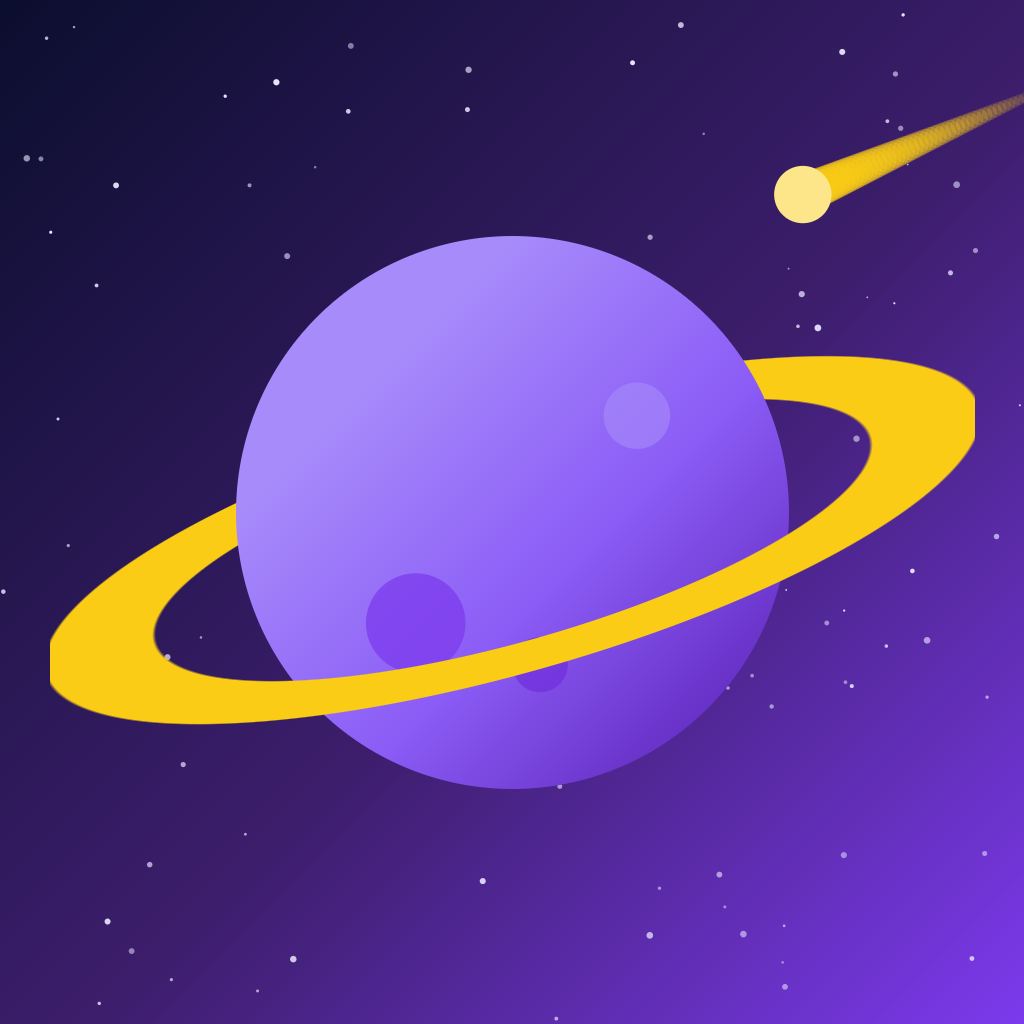
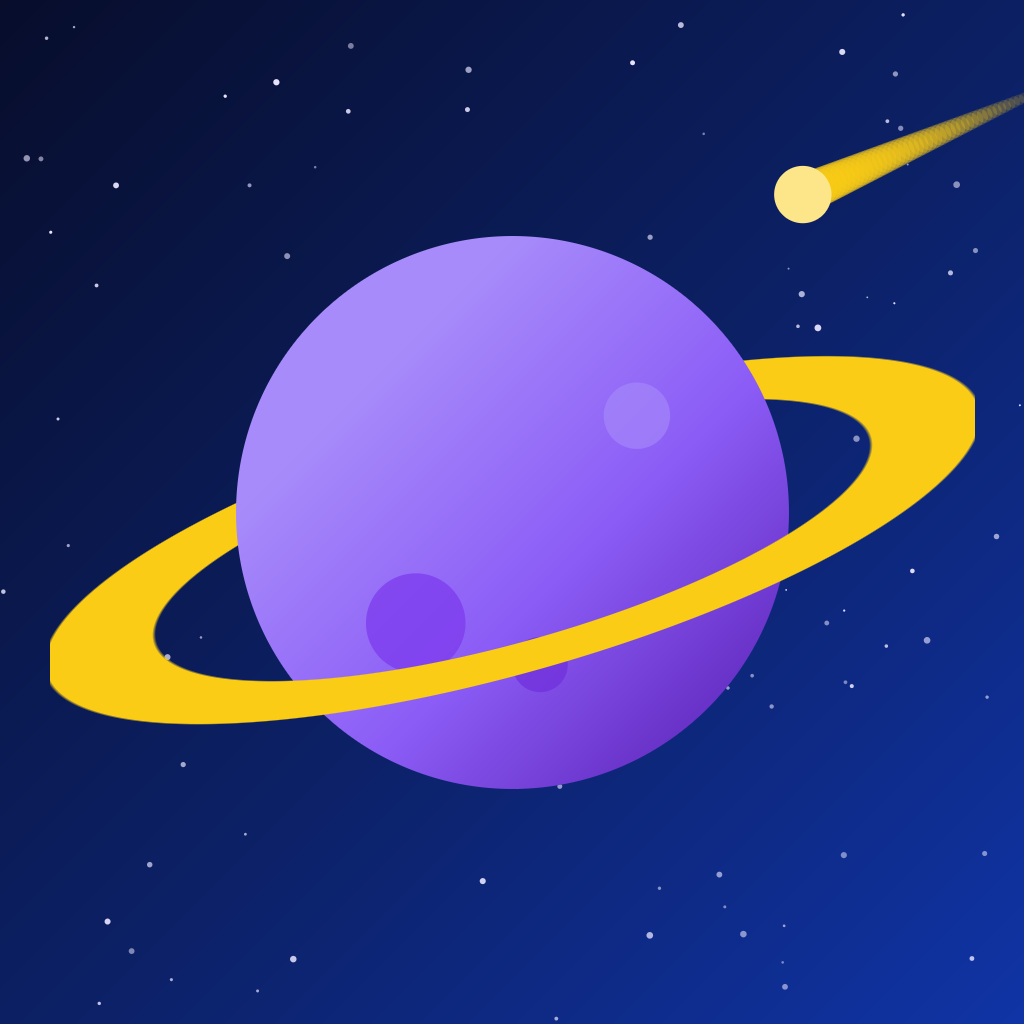
Landscape gameplay, gravity-based tilt fix, bigger words, Egyptian blue theme
1. Game screen now plays in landscape (expo-screen-orientation):
   rotates at the 3-2-1 countdown, restores portrait on exit
2. Fix tilt bug: rotation.beta gimbal-flips near vertical, making tilt-up
   register as correct. Now uses the gravity vector (asin(g_z/|g|)) —
   unambiguous up vs down, works in any orientation
3. Words much bigger (110pt autoscaling, max 2 lines); compacted game
   chrome; every deck now 30+ words with genuinely harder 'hard' tiers
4. Global color switched to Egyptian blue (#1034A6): theme gradient,
   accents, app.json backgrounds, regenerated icon/splash art

diff --git a/hooks/useTiltDetection.ts b/hooks/useTiltDetection.ts
@@ -15,18 +15,29 @@ interface Options {
 }
 
 /**
- * Tilt detection for "phone on forehead" play, via DeviceMotion.
+ * Sign normalization for accelerationIncludingGravity.z so that
+ * "+1 g along z" always means "screen facing the ceiling":
+ * - iOS (CoreMotion): flat screen-up reports z ≈ -9.81
+ * - Android: flat screen-up reports z ≈ +9.81
+ */
+const GRAVITY_SIGN = Platform.OS === "ios" ? -1 : 1;
+
+/**
+ * Tilt detection for "phone on forehead" play.
  *
- * The phone is held upright (portrait) against the forehead, screen facing
- * the guessers. We derive the pitch angle from `rotation.beta` (rotation
- * around the device x-axis, radians):
- *   - upright ≈ 90°
- *   - tilt down (screen toward floor)  → angle shrinks toward 0°
- *   - tilt up (screen toward ceiling)  → angle grows toward 180°
+ * Uses the GRAVITY VECTOR, not Euler angles: rotation.beta suffers a gimbal
+ * flip near vertical (tilting up past vertical makes beta shrink again, which
+ * made tilt-up register as "correct"). Gravity has no such ambiguity and is
+ * orientation-independent (works in portrait AND landscape).
+ *
+ * Geometry: the phone is held vertically against the forehead, screen facing
+ * the guessers → gravity is perpendicular to the screen normal (tilt ≈ 0°).
+ *   - Tilt DOWN (screen toward floor)  → gravity gains a -z component
+ *   - Tilt UP   (screen toward ceiling) → gravity gains a +z component
+ * tiltDeg = asin(g_z / |g|):  negative = down, positive = up.
  *
  * Debounce contract: after firing "down" or "up", the device must return to
- * the neutral band before another event can fire — a single tilt gesture
- * produces exactly one event.
+ * the neutral band before another event can fire — one gesture, one event.
  */
 export function useTiltDetection({ onTilt, sensitivity = 0.5, enabled = true }: Options = {}) {
   const [tiltState, setTiltState] = useState<TiltState>("neutral");
@@ -40,11 +51,11 @@ export function useTiltDetection({ onTilt, sensitivity = 0.5, enabled = true }: 
   const enabledRef = useRef(enabled);
   enabledRef.current = enabled;
 
-  // Sensitivity 0..1 → trigger offset from vertical: 50° (hard) … 25° (easy).
+  // Sensitivity 0..1 → trigger angle from vertical: 50° (hard) … 25° (easy).
   const clamped = Math.min(1, Math.max(0, sensitivity));
-  const triggerOffset = 50 - clamped * 25;
-  const offsetRef = useRef(triggerOffset);
-  offsetRef.current = triggerOffset;
+  const triggerAngle = 50 - clamped * 25;
+  const angleRef = useRef(triggerAngle);
+  angleRef.current = triggerAngle;
 
   const requestPermission = useCallback(async (): Promise<TiltPermission> => {
     if (Platform.OS === "web") {
@@ -72,29 +83,31 @@ export function useTiltDetection({ onTilt, sensitivity = 0.5, enabled = true }: 
 
     DeviceMotion.setUpdateInterval(80);
     const sub = DeviceMotion.addListener((m: DeviceMotionMeasurement) => {
-      const beta = m.rotation?.beta;
-      if (beta == null) return;
+      const g = m.accelerationIncludingGravity;
+      if (!g || g.x == null || g.y == null || g.z == null) return;
 
-      const pitchDeg = (beta * 180) / Math.PI; // upright ≈ 90
-      const offset = offsetRef.current;
-      const downThreshold = 90 - offset;
-      const upThreshold = 90 + offset;
-      // Neutral band is deliberately narrower than the trigger band so the
-      // gesture has hysteresis (no rapid-fire at the boundary).
-      const neutralLow = 90 - offset * 0.55;
-      const neutralHigh = 90 + offset * 0.55;
+      const magnitude = Math.sqrt(g.x * g.x + g.y * g.y + g.z * g.z);
+      // Ignore junk samples (free-fall / sensor warm-up) — gravity should
+      // dominate; violent shakes briefly distort it but settle within a tick.
+      if (magnitude < 4) return;
+
+      const zRatio = Math.max(-1, Math.min(1, (GRAVITY_SIGN * g.z) / magnitude));
+      const tiltDeg = (Math.asin(zRatio) * 180) / Math.PI; // + up / - down
+
+      const trigger = angleRef.current;
+      const rearm = trigger * 0.5; // hysteresis: must come well back to vertical
 
       if (armedRef.current) {
-        if (pitchDeg < downThreshold) {
+        if (tiltDeg < -trigger) {
           armedRef.current = false;
           setTiltState("down");
           if (enabledRef.current) onTiltRef.current?.("down");
-        } else if (pitchDeg > upThreshold) {
+        } else if (tiltDeg > trigger) {
           armedRef.current = false;
           setTiltState("up");
           if (enabledRef.current) onTiltRef.current?.("up");
         }
-      } else if (pitchDeg > neutralLow && pitchDeg < neutralHigh) {
+      } else if (Math.abs(tiltDeg) < rearm) {
         armedRef.current = true;
         setTiltState("neutral");
       }

diff --git a/app/game.tsx b/app/game.tsx
@@ -1,7 +1,8 @@
 import React, { useCallback, useEffect, useMemo, useRef, useState } from "react";
-import { Pressable, StyleSheet, View } from "react-native";
+import { Platform, Pressable, StyleSheet, View } from "react-native";
 import { useRouter } from "expo-router";
 import { Ionicons } from "@expo/vector-icons";
+import * as ScreenOrientation from "expo-screen-orientation";
 import Animated, {
   Easing,
   FadeIn,
@@ -53,6 +54,15 @@ export default function Game() {
   const resultsRef = useRef<WordResult[]>([]);
   const bestStreakRef = useRef(0);
   const endedRef = useRef(false);
+
+  // Gameplay is landscape (like classic Heads Up). Restore portrait on exit.
+  useEffect(() => {
+    if (Platform.OS === "web") return;
+    ScreenOrientation.lockAsync(ScreenOrientation.OrientationLock.LANDSCAPE).catch(() => {});
+    return () => {
+      ScreenOrientation.lockAsync(ScreenOrientation.OrientationLock.PORTRAIT_UP).catch(() => {});
+    };
+  }, []);
 
   // ----- word advance -----
 
@@ -189,9 +199,9 @@ export default function Game() {
             </PoppinsText>
             <TiltIndicator tiltState={tiltState} active={tiltActive} />
           </View>
-          <TimerRing secondsLeft={secondsLeft} totalSeconds={settings.roundDuration} />
+          <TimerRing secondsLeft={secondsLeft} totalSeconds={settings.roundDuration} size={64} />
           <View style={styles.scoreBox}>
-            <PoppinsText weight="black" size={theme.fontSize.xxl} color={theme.colors.correct}>
+            <PoppinsText weight="black" size={theme.fontSize.xl} color={theme.colors.correct}>
               {score}
             </PoppinsText>
             <PoppinsText weight="medium" size={theme.fontSize.xs} color={theme.colors.textMuted}>
@@ -227,10 +237,11 @@ export default function Game() {
           <PoppinsText
             key={index} // remount per word so font auto-scaling resets
             weight="black"
-            size={theme.fontSize.giant}
+            size={110}
             align="center"
             adjustsFontSizeToFit
-            numberOfLines={3}
+            numberOfLines={2}
+            minimumFontScale={0.3}
             style={styles.word}
           >
             {currentWord?.term ?? "No words!"}
@@ -276,7 +287,7 @@ const styles = StyleSheet.create({
   },
   topLeft: { gap: 6, alignItems: "flex-start", width: 110 },
   scoreBox: { alignItems: "center", width: 110 },
-  streakSlot: { height: 44, alignItems: "center", justifyContent: "center" },
+  streakSlot: { height: 34, alignItems: "center", justifyContent: "center" },
   wordArea: { flex: 1, alignItems: "center", justifyContent: "center" },
   word: { paddingHorizontal: theme.spacing.sm },
   controls: {
@@ -289,7 +300,7 @@ const styles = StyleSheet.create({
     alignItems: "center",
     justifyContent: "center",
     gap: theme.spacing.sm,
-    paddingVertical: 18,
+    paddingVertical: 12,
     borderRadius: theme.radius.lg,
     borderWidth: 1.5,
   },

diff --git a/data/decks.ts b/data/decks.ts
@@ -57,10 +57,12 @@ export const decks: Deck[] = [
       m("The Avengers"), m("Stranger Things"), m("Game of Thrones"),
       m("Breaking Bad"), m("Pirates of the Caribbean"), m("Toy Story"),
       m("The Simpsons"), m("Indiana Jones"), m("King Kong"),
-      m("Mission Impossible"), m("Home Alone"),
-      h("The Godfather"), h("Inception"), h("Squid Game"),
-      h("The Truman Show"), h("Black Mirror"), h("Forrest Gump"),
-      h("The Silence of the Lambs"), h("Groundhog Day"),
+      m("Mission Impossible"), m("Home Alone"), m("Forrest Gump"),
+      m("Squid Game"),
+      h("The Godfather"), h("Inception"), h("The Truman Show"),
+      h("Black Mirror"), h("The Silence of the Lambs"), h("Groundhog Day"),
+      h("Citizen Kane"), h("2001: A Space Odyssey"), h("Parasite"),
+      h("Pulp Fiction"), h("The Blair Witch Project"),
     ],
   },
   {
@@ -94,10 +96,12 @@ export const decks: Deck[] = [
       m("Albert Einstein"), m("William Shakespeare"), m("Leonardo da Vinci"),
       m("Napoleon"), m("Cleopatra"), m("Mozart"), m("Pelé"),
       m("Muhammad Ali"), m("Charlie Chaplin"), m("Neil Armstrong"),
-      m("Christopher Columbus"), m("Julius Caesar"),
+      m("Christopher Columbus"), m("Julius Caesar"), m("Bob Marley"),
+      m("Bruce Lee"), m("Mahatma Gandhi"),
       h("Isaac Newton"), h("Marie Curie"), h("Nikola Tesla"),
       h("Vincent van Gogh"), h("Beethoven"), h("Genghis Khan"),
-      h("Nelson Mandela"), h("Pablo Picasso"),
+      h("Nelson Mandela"), h("Pablo Picasso"), h("Socrates"),
+      h("Joan of Arc"), h("Alexander the Great"),
     ],
   },
   {
@@ -115,6 +119,7 @@ export const decks: Deck[] = [
       m("referee"), m("magician"),
       h("astronaut"), h("archaeologist"), h("surgeon"), h("air traffic controller"),
       h("sommelier"), h("auctioneer"), h("undertaker"), h("lighthouse keeper"),
+      h("taxidermist"), h("falconer"),
     ],
   },
   {
@@ -150,7 +155,7 @@ export const decks: Deck[] = [
       m("Hollywood"), m("Las Vegas"),
       h("Machu Picchu"), h("Stonehenge"), h("Leaning Tower of Pisa"),
       h("Bermuda Triangle"), h("Great Barrier Reef"), h("Mount Kilimanjaro"),
-      h("Petra"), h("Easter Island"),
+      h("Petra"), h("Easter Island"), h("Angkor Wat"),
     ],
   },
   {
@@ -168,6 +173,7 @@ export const decks: Deck[] = [
       m("croissant"),
       h("escargot"), h("tiramisu"), h("guacamole"), h("kombucha"),
       h("ratatouille"), h("bubble tea"), h("fondue"), h("paella"),
+      h("haggis"), h("century egg"),
     ],
   },
   {

diff --git a/app/pregame.tsx b/app/pregame.tsx
@@ -1,7 +1,8 @@
 import React, { useEffect, useRef, useState } from "react";
-import { Pressable, StyleSheet, Switch, View } from "react-native";
+import { Platform, Pressable, StyleSheet, Switch, View } from "react-native";
 import { useRouter } from "expo-router";
 import { Ionicons } from "@expo/vector-icons";
+import * as ScreenOrientation from "expo-screen-orientation";
 import Animated, {
   Easing,
   useAnimatedStyle,
@@ -43,6 +44,11 @@ export default function PreGame() {
 
   const startCountdown = () => {
     haptics.tap();
+    // Rotate into landscape now, so the player is already holding the phone
+    // sideways when the round begins.
+    if (Platform.OS !== "web") {
+      ScreenOrientation.lockAsync(ScreenOrientation.OrientationLock.LANDSCAPE).catch(() => {});
+    }
     setCountdown(3);
     play("countdown");
     let n = 3;

diff --git a/app/_layout.tsx b/app/_layout.tsx
@@ -1,7 +1,9 @@
 import React, { useEffect } from "react";
+import { Platform } from "react-native";
 import { Stack } from "expo-router";
 import { StatusBar } from "expo-status-bar";
 import * as SplashScreen from "expo-splash-screen";
+import * as ScreenOrientation from "expo-screen-orientation";
 import {
   useFonts,
   Poppins_400Regular,
@@ -32,6 +34,13 @@ export default function RootLayout() {
       SplashScreen.hideAsync().catch(() => {});
     }
   }, [fontsLoaded, fontError]);
+
+  // Menus are portrait; the game screen switches itself to landscape.
+  useEffect(() => {
+    if (Platform.OS !== "web") {
+      ScreenOrientation.lockAsync(ScreenOrientation.OrientationLock.PORTRAIT_UP).catch(() => {});
+    }
+  }, []);
 
   if (!fontsLoaded && !fontError) {
     return null; // native splash still showing

diff --git a/theme/theme.ts b/theme/theme.ts
@@ -59,15 +59,17 @@ export interface Theme {
 
 export const darkTheme: Theme = {
   colors: {
-    bgGradient: ["#0B0E2E", "#3D1E6D", "#7C3AED"] as const,
-    bgDeep: "#0B0E2E",
+    // Egyptian blue (#1034A6) is the global brand color: deep-space ramp
+    // from near-black navy up to full Egyptian blue.
+    bgGradient: ["#070D2B", "#0C2168", "#1034A6"] as const,
+    bgDeep: "#070D2B",
     surface: "rgba(255,255,255,0.06)",
     surfaceRaised: "rgba(255,255,255,0.10)",
     surfaceBorder: "rgba(255,255,255,0.14)",
     textPrimary: "#F8FAFC",
-    textSecondary: "#C7C9E8",
-    textMuted: "#8B8FC7",
-    accent: "#7C3AED",
+    textSecondary: "#C5CDF0",
+    textMuted: "#8C93CC",
+    accent: "#1034A6",
     correct: "#22C55E",
     correctGlow: "rgba(34,197,94,0.45)",
     skip: "#F59E0B",
